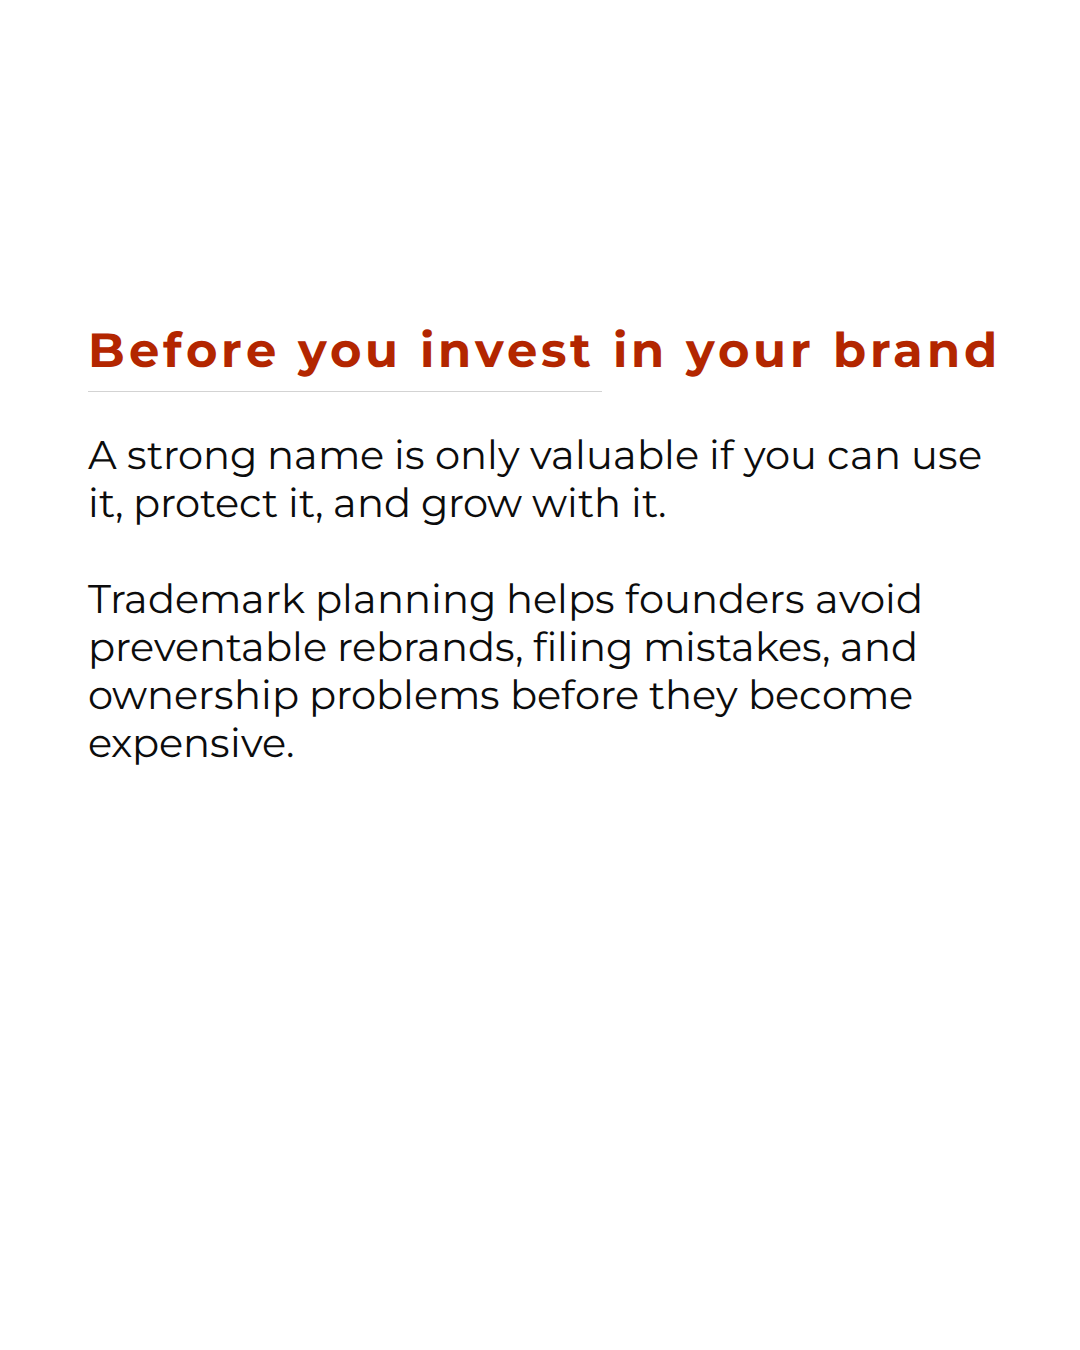
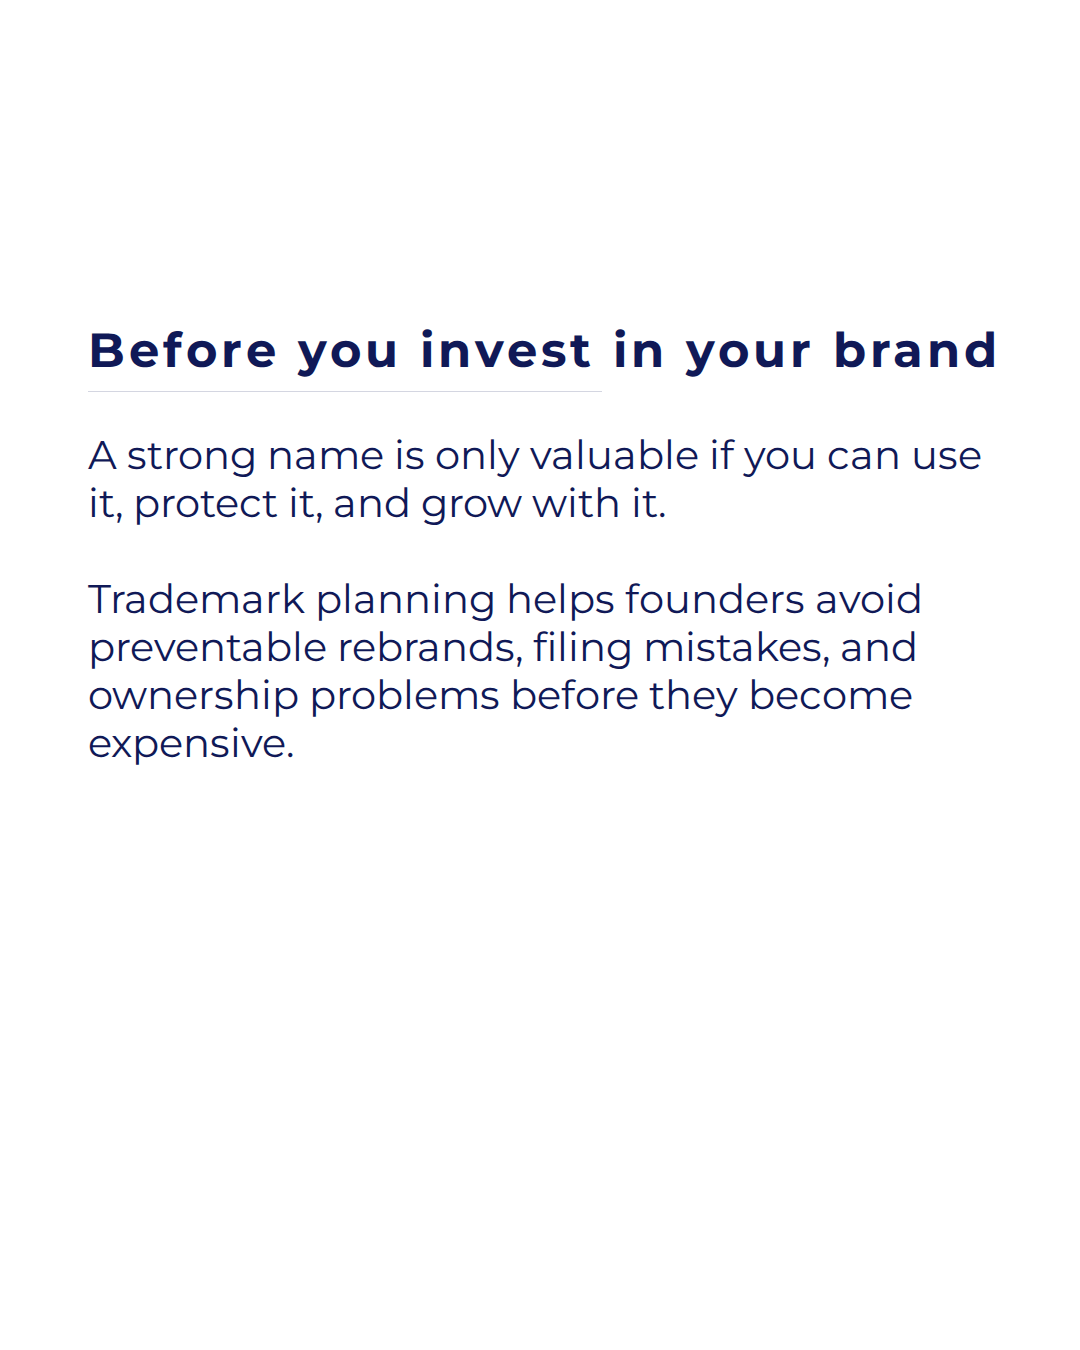
Rebrand carousel workflow from Vest Counsel to Theus Abroad
- Palette collapses to the three brand colors: navy #101957, tan #C8B59A,
  white #FFFFFF. New background names bg-navy / bg-tan / bg-paper; the old
  names (bg-ink, bg-charcoal, bg-gray, bg-red, bg-cream) stay valid as
  aliases so existing CSV rows and rendered HTML keep working.
- Cover wordmark reads THEUS ABROAD: tan on navy, dimmed navy on light
  backgrounds. Titles and accents use navy on light slides, tan on navy.
- Closing contact block points at hello@theusabroad.com /
  www.theusabroad.com; the old vanity phone line is removed.
- Generator validates the new background names and keeps the no-tan-cover
  brand rule (formerly no-cream).
- Docs updated (README, style guide brand section, package description);
  all 78 slides regenerated on the new palette. Montserrat unchanged.

Claude-Session: https://claude.ai/code/session_01L8DgnZi1QFGHdrMhBMVWfF

diff --git a/templates/closing.html b/templates/closing.html
@@ -2,12 +2,12 @@
 <html lang="en">
 <head>
 <meta charset="utf-8">
-<title>Vest Counsel closing slide</title>
+<title>Theus Abroad closing slide</title>
 <link href="../assets/fonts/montserrat.css" rel="stylesheet">
 <style>
   :root{
-    --ink:#0c0c0c; --paper:#ffffff; --red:#b32600;
-    --gray:#808080; --charcoal:#282828; --cream:#edeae3;
+    /* Theus Abroad brand palette */
+    --navy:#101957; --tan:#C8B59A; --paper:#ffffff;
     --ml:88px;                 /* left and right margin */
     --asc:0.968; --em:1.219;   /* Montserrat metrics, do not edit */
   }
@@ -18,12 +18,15 @@
     font-family:'Montserrat',system-ui,sans-serif;
     -webkit-font-smoothing:antialiased;
   }
-  .slide.bg-paper   { background:var(--paper);    color:var(--ink);   --bg:var(--paper);    --accent:var(--red);   }
-  .slide.bg-cream   { background:var(--cream);    color:var(--ink);   --bg:var(--cream);    --accent:var(--red);   }
-  .slide.bg-ink     { background:var(--ink);      color:var(--paper); --bg:var(--ink);      --accent:var(--paper); }
-  .slide.bg-charcoal{ background:var(--charcoal); color:var(--paper); --bg:var(--charcoal); --accent:var(--paper); }
-  .slide.bg-gray    { background:var(--gray);     color:var(--paper); --bg:var(--gray);     --accent:var(--paper); }
-  .slide.bg-red     { background:var(--red);      color:var(--paper); --bg:var(--red);      --accent:var(--paper); }
+  /* bg-ink / bg-charcoal / bg-gray / bg-red are legacy aliases of bg-navy,
+     and bg-cream is a legacy alias of bg-tan, so older CSV rows and
+     rendered slides keep working. */
+  .slide.bg-paper   { background:var(--paper); color:var(--navy); --bg:var(--paper); --accent:var(--navy); }
+  .slide.bg-tan,
+  .slide.bg-cream   { background:var(--tan);   color:var(--navy); --bg:var(--tan);   --accent:var(--navy); }
+  .slide.bg-navy, .slide.bg-ink, .slide.bg-charcoal,
+  .slide.bg-gray, .slide.bg-red
+                    { background:var(--navy); color:var(--paper); --bg:var(--navy); --accent:var(--tan); }
 
   /* Baseline anchoring. .bl-top pins the first baseline, .bl-bot the last. */
   .bl-top,.bl-bot{
@@ -37,10 +40,9 @@
   .headline{ --fs:92.5; --lh:1.137; --bl:403.3; }
   .subheading{ --fs:36; --lh:1; --bl:478.9; letter-spacing:.076em;
              text-transform:uppercase; color:var(--accent); }
-  .phone   { --fs:24; --lh:1; --bl:519.7; letter-spacing:.058em; color:var(--accent); }
-  .email   { --fs:24; --lh:1; --bl:560.7; letter-spacing:.058em; color:var(--accent);
+  .email   { --fs:24; --lh:1; --bl:519.7; letter-spacing:.058em; color:var(--accent);
              text-decoration:none; }
-  .web     { --fs:24; --lh:1; --bl:601.7; letter-spacing:.058em; color:var(--accent);
+  .web     { --fs:24; --lh:1; --bl:560.7; letter-spacing:.058em; color:var(--accent);
              text-decoration:none; }
 
   /* Cat: 465 x 677, on the right margin, 138 up from the bottom.
@@ -56,7 +58,7 @@
 
 <!-- =======================================================================
      EDIT HERE.
-     Backgrounds:  bg-paper  bg-cream  bg-ink  bg-charcoal  bg-gray  bg-red
+     Backgrounds:  bg-paper  bg-tan  bg-navy
      Never indent a continuation line.
      ======================================================================= -->
 
@@ -65,9 +67,8 @@
   <h1 class="bl-bot headline">{{CTA_HEADING}}</h1>
 
   <p class="bl-top subheading">{{CTA_SUBHEADING}}</p>
-  <p class="bl-top phone">+1 888 VEST-599</p>
-  <a class="bl-top email" href="mailto:hello@vestcounsel.com">hello@vestcounsel.com</a>
-  <a class="bl-top web" href="https://www.vestcounsel.com">www.vestcounsel.com</a>
+  <a class="bl-top email" href="mailto:hello@theusabroad.com">hello@theusabroad.com</a>
+  <a class="bl-top web" href="https://www.theusabroad.com">www.theusabroad.com</a>
 
   <!-- artwork, nothing to edit below this line -->
     <svg class="cat" viewBox="0 0 1302.97 1894.9" xmlns="http://www.w3.org/2000/svg" aria-hidden="true">

diff --git a/templates/middle.html b/templates/middle.html
@@ -2,12 +2,12 @@
 <html lang="en">
 <head>
 <meta charset="utf-8">
-<title>Vest Counsel middle slide</title>
+<title>Theus Abroad middle slide</title>
 <link href="../assets/fonts/montserrat.css" rel="stylesheet">
 <style>
   :root{
-    --ink:#0c0c0c; --paper:#ffffff; --red:#b32600;
-    --gray:#808080; --charcoal:#282828; --cream:#edeae3;
+    /* Theus Abroad brand palette */
+    --navy:#101957; --tan:#C8B59A; --paper:#ffffff;
     --ml:88px;                 /* left and right margin */
     --asc:0.968; --em:1.219;   /* Montserrat metrics, do not edit */
   }
@@ -18,12 +18,15 @@
     font-family:'Montserrat',system-ui,sans-serif;
     -webkit-font-smoothing:antialiased;
   }
-  .slide.bg-paper   { background:var(--paper);    color:var(--ink);   --bg:var(--paper);    --accent:var(--red);   }
-  .slide.bg-cream   { background:var(--cream);    color:var(--ink);   --bg:var(--cream);    --accent:var(--red);   }
-  .slide.bg-ink     { background:var(--ink);      color:var(--paper); --bg:var(--ink);      --accent:var(--paper); }
-  .slide.bg-charcoal{ background:var(--charcoal); color:var(--paper); --bg:var(--charcoal); --accent:var(--paper); }
-  .slide.bg-gray    { background:var(--gray);     color:var(--paper); --bg:var(--gray);     --accent:var(--paper); }
-  .slide.bg-red     { background:var(--red);      color:var(--paper); --bg:var(--red);      --accent:var(--paper); }
+  /* bg-ink / bg-charcoal / bg-gray / bg-red are legacy aliases of bg-navy,
+     and bg-cream is a legacy alias of bg-tan, so older CSV rows and
+     rendered slides keep working. */
+  .slide.bg-paper   { background:var(--paper); color:var(--navy); --bg:var(--paper); --accent:var(--navy); }
+  .slide.bg-tan,
+  .slide.bg-cream   { background:var(--tan);   color:var(--navy); --bg:var(--tan);   --accent:var(--navy); }
+  .slide.bg-navy, .slide.bg-ink, .slide.bg-charcoal,
+  .slide.bg-gray, .slide.bg-red
+                    { background:var(--navy); color:var(--paper); --bg:var(--navy); --accent:var(--tan); }
 
   /* Baseline anchoring. .bl-top pins the first baseline, .bl-bot the last. */
   .bl-top,.bl-bot{
@@ -35,7 +38,7 @@
   .bl-bot{ bottom:calc((1350 - (var(--bl) + ((var(--lh) - var(--em))/2 + 0.251) * var(--fs))) * 1px); }
 
   /* Hierarchy: title above the divider, divider, stacked content below,
-     image only after all text. The title takes the accent red. Its LAST
+     image only after all text. The title takes the accent color. Its LAST
      baseline is pinned, so multiline titles grow upward and always stay
      clear of the divider (baseline sits so 60px descenders keep the same
      visual gap to the rule that the smaller title had). */
@@ -70,7 +73,7 @@
 
 <!-- =======================================================================
      EDIT HERE.
-     Backgrounds:  bg-paper  bg-cream  bg-ink  bg-charcoal  bg-gray  bg-red
+     Backgrounds:  bg-paper  bg-tan  bg-navy
      Never indent a continuation line. Use &amp;amp; for an ampersand.
 
      ILLUSTRATIONS. The generator fills the img src from the CSV with a
@@ -107,7 +110,7 @@
   const subheading = document.querySelector('.subheading');
   const body = document.querySelector('.body');
   const art = document.querySelector('.illustration');
-  if (slide.className.indexOf(ph('BACKGROUND')) !== -1) slide.className = 'slide bg-cream';
+  if (slide.className.indexOf(ph('BACKGROUND')) !== -1) slide.className = 'slide bg-tan';
   if (title.textContent === ph('HEADING')) title.textContent = 'Use the correct entity name';
   if (subheading.textContent === ph('SUBHEADING')) subheading.textContent = '';
   if (body.textContent === ph('BODY')) body.textContent = 'The agreement should identify the exact company entering into the contract.';

diff --git a/templates/cover.html b/templates/cover.html
@@ -2,12 +2,12 @@
 <html lang="en">
 <head>
 <meta charset="utf-8">
-<title>Vest Counsel cover slide</title>
+<title>Theus Abroad cover slide</title>
 <link href="../assets/fonts/montserrat.css" rel="stylesheet">
 <style>
   :root{
-    --ink:#0c0c0c; --paper:#ffffff; --red:#b32600;
-    --gray:#808080; --charcoal:#282828; --cream:#edeae3;
+    /* Theus Abroad brand palette */
+    --navy:#101957; --tan:#C8B59A; --paper:#ffffff;
     --ml:88px;                 /* left and right margin */
     --asc:0.968; --em:1.219;   /* Montserrat metrics, do not edit */
   }
@@ -17,14 +17,17 @@
     position:relative; width:1080px; height:1350px; overflow:hidden;
     font-family:'Montserrat',system-ui,sans-serif;
     -webkit-font-smoothing:antialiased;
-    background:var(--ink); color:var(--paper);
+    background:var(--navy); color:var(--paper);
   }
-  .slide.bg-ink     { background:var(--ink);      color:var(--paper); }
-  .slide.bg-red     { background:var(--red);      color:var(--paper); }
-  .slide.bg-charcoal{ background:var(--charcoal); color:var(--paper); }
-  .slide.bg-gray    { background:var(--gray);     color:var(--paper); }
-  .slide.bg-paper   { background:var(--paper);    color:var(--ink);   }
-  .slide.bg-cream   { background:var(--cream);    color:var(--ink);   }
+  /* bg-ink / bg-charcoal / bg-gray / bg-red are legacy aliases of bg-navy,
+     and bg-cream is a legacy alias of bg-tan, so older CSV rows and
+     rendered slides keep working. */
+  .slide.bg-navy, .slide.bg-ink, .slide.bg-charcoal,
+  .slide.bg-gray, .slide.bg-red
+                    { background:var(--navy); color:var(--paper); }
+  .slide.bg-paper   { background:var(--paper); color:var(--navy); }
+  .slide.bg-tan,
+  .slide.bg-cream   { background:var(--tan);   color:var(--navy); }
 
   .bl-top,.bl-bot{
     position:absolute; left:var(--ml); right:var(--ml); margin:0;
@@ -35,9 +38,10 @@
   .bl-bot{ bottom:calc((1350 - (var(--bl) + ((var(--lh) - var(--em))/2 + 0.251) * var(--fs))) * 1px); }
 
   .wordmark{ --fs:48; --lh:1; --bl:166.2;
-             letter-spacing:.105em; text-transform:uppercase; opacity:.42; }
+             letter-spacing:.105em; text-transform:uppercase; color:var(--tan); }
   .slide.bg-paper .wordmark,
-  .slide.bg-cream .wordmark{ opacity:1; color:var(--gray); }
+  .slide.bg-tan .wordmark,
+  .slide.bg-cream .wordmark{ color:var(--navy); opacity:.45; }
 
   /* pre-wrap keeps explicit returns AND wraps long titles naturally.
      The script below holds 120px whenever the title fits on up to
@@ -50,11 +54,11 @@
 <!-- =======================================================================
      EDIT HERE. Change the bg- class, change the headline text.
      Line breaks are literal: press return where you want the line to break.
-     Backgrounds: bg-ink  bg-red  bg-charcoal  bg-gray  bg-paper  bg-cream
+     Backgrounds: bg-navy  bg-paper  bg-tan
      ======================================================================= -->
 
 <div class="slide {{BACKGROUND}}" data-template="cover">
-  <p class="bl-top wordmark">Vest Counsel</p>
+  <p class="bl-top wordmark">Theus Abroad</p>
   <h1 class="bl-bot display">{{TITLE}}</h1>
 </div>
 

diff --git a/scripts/generate.js b/scripts/generate.js
@@ -28,7 +28,10 @@ const OUTPUT_DIR = path.join(ROOT, 'public', 'social');
 const WIDTH = 1080;
 const HEIGHT = 1350;
 
-const BACKGROUNDS = ['bg-paper', 'bg-cream', 'bg-ink', 'bg-charcoal', 'bg-gray', 'bg-red'];
+// Theus Abroad palette. The legacy names still validate: bg-cream renders
+// as bg-tan, and bg-ink / bg-charcoal / bg-gray / bg-red render as bg-navy.
+const BACKGROUNDS = ['bg-paper', 'bg-tan', 'bg-navy',
+                     'bg-cream', 'bg-ink', 'bg-charcoal', 'bg-gray', 'bg-red'];
 
 const PREVIEW = process.argv.includes('--preview');
 const POST_FILTER = (() => {
@@ -139,10 +142,10 @@ function validateCarousel(postId, rows, ctaLibrary) {
       fail(`${where}: ${field} "${value}" is not supported. Use one of: ${BACKGROUNDS.join(', ')}.`);
     }
   }
-  // Brand rule: covers never use cream.
-  if (first.cover_background === 'bg-cream') {
-    fail(`${where}: bg-cream is not allowed as a cover background. ` +
-         'Use bg-paper, bg-ink, bg-charcoal, bg-gray, or bg-red.');
+  // Brand rule: covers never use the light tan (formerly cream) background.
+  if (first.cover_background === 'bg-tan' || first.cover_background === 'bg-cream') {
+    fail(`${where}: ${first.cover_background} is not allowed as a cover background. ` +
+         'Use bg-paper or bg-navy.');
   }
 
   const ctaKey = first.cta_key;

diff --git a/README.md b/README.md
@@ -1,6 +1,6 @@
 # social-content
 
-CSV-driven carousel generator. CSV content flows into the existing HTML slide
+CSV-driven carousel generator for **Theus Abroad** social posts. CSV content flows into the existing HTML slide
 templates, SVG illustrations drop into the middle slides, Playwright renders
 each slide in Chromium, and the result is final 1080 × 1350 PNG files.
 
@@ -55,8 +55,10 @@ cta_key,closing_background,middle_subheading
 
 - `publish_at` uses `YYYY-MM-DD HH:MM`; its month decides the output folder.
 - Write `\n` inside a field for an explicit line break.
-- Backgrounds: `bg-paper`, `bg-cream`, `bg-ink`, `bg-charcoal`, `bg-gray`, `bg-red`.
-  Covers never use `bg-cream` — the generator rejects it.
+- Backgrounds: `bg-paper` (white `#FFFFFF`), `bg-tan` (`#C8B59A`),
+  `bg-navy` (`#101957`). Covers never use `bg-tan` — the generator rejects it.
+  Legacy names from the old palette still validate and render on the new
+  colors: `bg-cream` → tan; `bg-ink`, `bg-charcoal`, `bg-gray`, `bg-red` → navy.
 - `slide_number` orders the middle slides and must be unique per post. It is
   internal only — slide numbers are never displayed on a slide.
 - `middle_subheading` is an optional bold line (e.g. a person's name) placed

diff --git a/content/style-guide.md b/content/style-guide.md
@@ -1,7 +1,15 @@
-# Vest Counsel carousel copy style guide
+# Theus Abroad carousel copy style guide
 
 Distilled from the reviewed edits to the four Gaga trademark carousels
 (August 2026). These rules govern all future carousel drafting.
+
+## Brand
+
+- Wordmark: THEUS ABROAD (set in Montserrat, as is all slide type).
+- Colors, and nothing outside them:
+  - `#101957` navy — dark backgrounds; text and accent on light backgrounds.
+  - `#C8B59A` tan — light warm background; accent on navy backgrounds.
+  - `#FFFFFF` white — paper background; text on navy backgrounds.
 
 ## Punctuation
 
